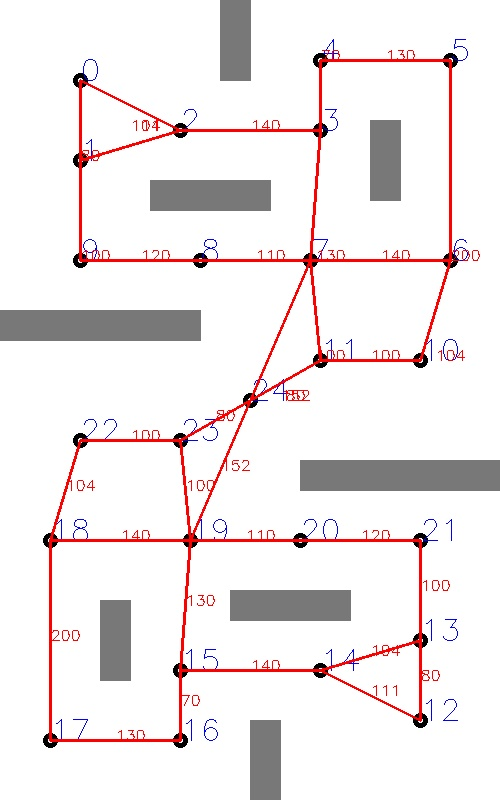
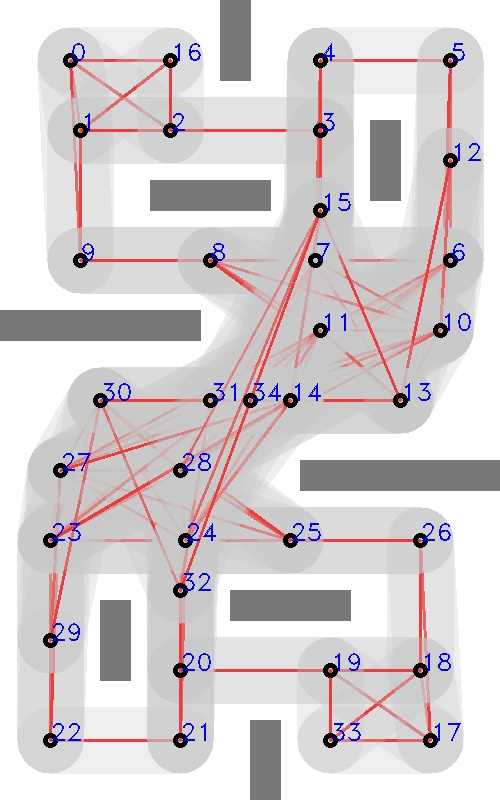
jjt

diff --git a/src/robo_navigation/script/2draw.py b/src/robo_navigation/script/2draw.py
@@ -1,0 +1,116 @@
+import cv2
+import numpy as np
+
+color_gray=(120,120,120)
+color_black=(0,0,0)
+color_red=(0,0,255)
+color_light_gray=(200,200,200)
+font =cv2.FONT_HERSHEY_DUPLEX
+
+
+map_empty=np.ones([800,500,3],np.uint8)*255
+cv2.rectangle(map_empty, (220,0),(250,80),color_gray, -1)
+cv2.rectangle(map_empty, (150,180),(270,210),color_gray, -1)
+cv2.rectangle(map_empty, (370,120),(400,200),color_gray, -1)
+cv2.rectangle(map_empty, (0,310),(200,340),color_gray, -1)
+
+cv2.rectangle(map_empty, (300,460),(500,490),color_gray, -1)
+cv2.rectangle(map_empty, (230,590),(350,620),color_gray, -1)
+cv2.rectangle(map_empty, (100,600),(130,680),color_gray, -1)
+cv2.rectangle(map_empty, (250,720),(280,800),color_gray, -1)
+
+map_pt=map_empty.copy()
+
+pt_self=[(70,60),  #0
+(80,130),          #1
+(170,130),         #2
+(320,130),         #3
+(320,60),          #4
+(450,60),          #5
+(450,260),         #6
+(315,260),         #7
+(210,260),         #8
+(80,260),          #9
+(440,330),         #10
+(320,330),         #11
+(450,160),         #12
+(400,400),         #13
+(290,400),         #14
+(320,210),         #15
+(170,60)]          #16
+pt_enemy=[]
+for i in range(len(pt_self)):
+    x=500-pt_self[i][0]
+    y=800-pt_self[i][1]
+    pt_enemy+=[(x,y)]
+
+pt_list=pt_self+pt_enemy+[(250,400)]
+nei_matrix=np.ones([len(pt_list),len(pt_list)])*100
+
+def add_edge(i,j):
+    map_draw_temp=map_pt.copy()
+    
+    cv2.line(map_draw_temp,pt_list[i],pt_list[j],color_light_gray,66)
+    cv2.line(map_pt,pt_list[i],pt_list[j],color_red,2)
+    distance=pow(pow((pt_list[i][0]-pt_list[j][0]),2)+pow((pt_list[i][1]-pt_list[j][1]),2),0.5)
+    line_center=((pt_list[i][0]+pt_list[j][0])//2,(pt_list[i][1]+pt_list[j][1])//2)
+    # cv2.putText(map_pt,'%d'%(int(distance)),line_center,font,0.6,color_red)
+    nei_matrix[i][j]=1
+    nei_matrix[j][i]=1
+
+    if (i<(len(pt_list)-1)/2) &( j<(len(pt_list)-1)/2):
+        if (i != len(pt_list)-1):
+            i=len(pt_self)+i
+        if (j != len(pt_list)-1):    
+            j=len(pt_self)+j
+
+        cv2.line(map_draw_temp,pt_list[i],pt_list[j],color_light_gray,66)
+        cv2.line(map_pt,pt_list[i],pt_list[j],color_red,2)
+        distance=pow(pow((pt_list[i][0]-pt_list[j][0]),2)+pow((pt_list[i][1]-pt_list[j][1]),2),0.5)
+        line_center=((pt_list[i][0]+pt_list[j][0])//2,(pt_list[i][1]+pt_list[j][1])//2)
+        # cv2.putText(map_pt,'%d'%(int(distance)),line_center,font,0.6,color_red)
+        nei_matrix[i][j]=1
+        nei_matrix[j][i]=1
+
+    cv2.addWeighted(map_draw_temp,0.3,map_pt,0.7,0,map_pt)
+
+
+def add_edges(source,*dsts):
+    for dst in dsts:
+        if dst>source:
+            add_edge(source,dst)
+
+add_edges(0,1,2,16,9)
+add_edges(1,2,16,9,3)
+add_edges(2,3,16)
+add_edges(3,4,15,7,11)
+add_edges(4,5,15,7,11)
+add_edges(5,12,6,10)
+add_edges(6,12,7,8,9,10,13,11,14,31,34,28,27)
+add_edges(7,8,9,15,11,14,13,10,31,34,28)
+add_edges(8,9,10,11,13)
+add_edges(10,13,11,14,34,31,28,12,27,23)
+add_edges(11,13,14,34,31,28,24,23,27)
+add_edges(12,13)
+add_edges(13,14,34,31,30,15) 
+add_edges(14,15,34,31,30,28,27,24,23)
+add_edges(15,34,28,24,32)
+
+
+for i in range(len(pt_list)):
+    cv2.circle(map_pt,pt_list[i],5,color_black,3)
+    cv2.putText(map_pt,'%d'%i,pt_list[i],font,0.8,(255,0,0))
+
+
+cv2.imwrite("map.jpg",map_pt)
+
+point_matrix=np.zeros([len(pt_list),2])
+for i in range(len(pt_list)):
+    point_matrix[i][0]=pt_list[i][0]
+    point_matrix[i][1]=pt_list[i][1]
+
+fs = cv2.FileStorage("matrix.xml", cv2.FILE_STORAGE_WRITE)
+fs.write('Matrix',nei_matrix)
+fs.write('Point',point_matrix)
+cv2.imshow("map",map_pt)
+cv2.waitKey(0)
